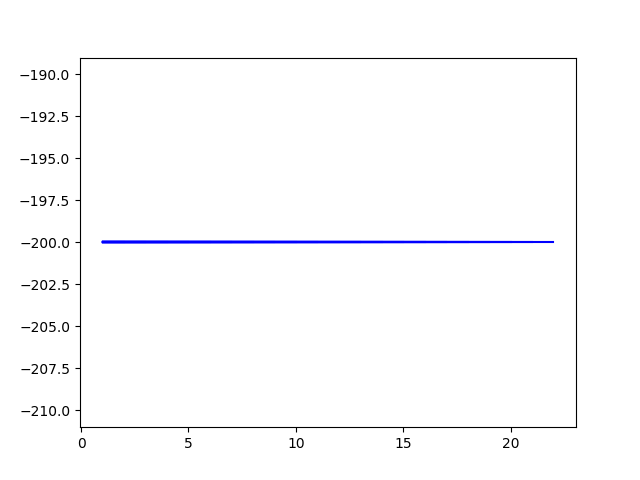
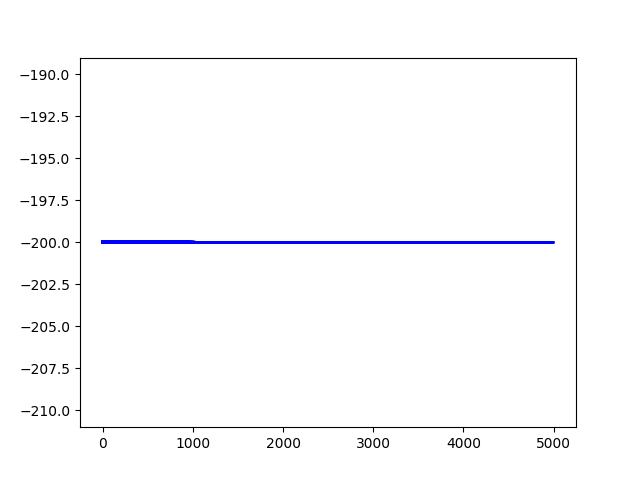
modify ppo

diff --git a/mountain_car/ppo/train.py b/mountain_car/ppo/train.py
@@ -54,7 +54,7 @@ def main():
     critic_optim = optim.Adam(critic.parameters(), lr=args.critic_lr, 
                               weight_decay=args.l2_rate) 
 
-    writer = SummaryWriter(args.logdir)
+    # writer = SummaryWriter(args.logdir)
 
     if not os.path.isdir(args.save_path):
         os.makedirs(args.save_path)
@@ -66,65 +66,59 @@ def main():
         actor.load_state_dict(ckpt['actor'])
         critic.load_state_dict(ckpt['critic'])
 
-    episodes, scores = [], []
-    episode = 0    
+    episodes, scores = [], []  
 
-    for iter in range(100000):
+    for episode in range(100000):
         actor.eval(), critic.eval()
         memory = Memory()
 
-        steps = 0
+        state = env.reset()
+        score = 0
 
-        while steps < 2048:
-            episode += 1
+        while True:
+            if args.render:
+                env.render()
 
-            state = env.reset()
-            score = 0
+            state = torch.Tensor(state)
+            policies = actor(state.unsqueeze(0))
+            action = get_action(policies)
+            next_state, reward, done, _ = env.step(action)
+            bouns_reward = reward + next_state[0] * 2  # bonus reward 
 
-            while True: 
-                if args.render:
-                    env.render()
+            if done:
+                mask = 0
+            else:
+                mask = 1
 
-                steps += 1
+            memory.push(state, action, bouns_reward, mask)
+            
+            score += reward
+            state = next_state
 
-                state = torch.Tensor(state)
-                policies = actor(state.unsqueeze(0))
-                action = get_action(policies)
-                next_state, reward, done, _ = env.step(action)
-                reward += next_state  # bonus reward 
+            if done:
+                scores.append(score)
+                episodes.append(episode)
+                pylab.plot(episodes, scores, 'b')
+                pylab.savefig("./learning_curves/ppo_train.png")
+                break
 
-                if done:
-                    mask = 0
-                else:
-                    mask = 1
-
-                memory.push(state, action, reward, mask)
-                
-                score += reward
-                state = next_state
-
-                if done:
-                    break
-
-            scores.append(score)
-            episodes.append(episode)
-            pylab.plot(episodes, scores, 'b')
-            pylab.savefig("./learning_curves/ppo_train.png")
+        # writer.add_scalar('log/score', float(score_avg), iter)
         
-        score_avg = np.mean(scores)
-        print('{} episode score is {}'.format(episode, score_avg))
-        writer.add_scalar('log/score', float(score_avg), iter)
-        
+        if episode % 50 == 0:
+            score_avg = np.mean(scores)
+            print('{} episode score is {:.2f}'.format(episode, score_avg))
+
         transitions = memory.sample()
+        
         actor.train(), critic.train()
         train_model(actor, critic, transitions, actor_optim, critic_optim, args)
         
-        if iter % 100:
-            ckpt_path = args.save_path + 'model.pth'
-            torch.save({
-                'actor': actor.state_dict(),
-                'critic': critic.state_dict(),
-                }, ckpt_path)
+        # if iter % 100:
+        #     ckpt_path = args.save_path + 'model.pth'
+        #     torch.save({
+        #         'actor': actor.state_dict(),
+        #         'critic': critic.state_dict(),
+        #         }, ckpt_path)
 
 if __name__ == '__main__':
     main()

diff --git a/mountain_car/ppo/ppo.py b/mountain_car/ppo/ppo.py
@@ -63,7 +63,6 @@ def train_model(actor, critic, transitions, actor_optim, critic_optim, args):
             loss.backward()
             actor_optim.step()
 
-
 def get_gae(rewards, masks, values, args):
     returns = torch.zeros_like(rewards)
     advants = torch.zeros_like(rewards)
@@ -86,7 +85,6 @@ def get_gae(rewards, masks, values, args):
 
     advants = (advants - advants.mean()) / advants.std()
     return returns, advants
-
 
 def surrogate_loss(actor, advants, states, old_policy, actions, batch_index):
     policies = actor(states)
